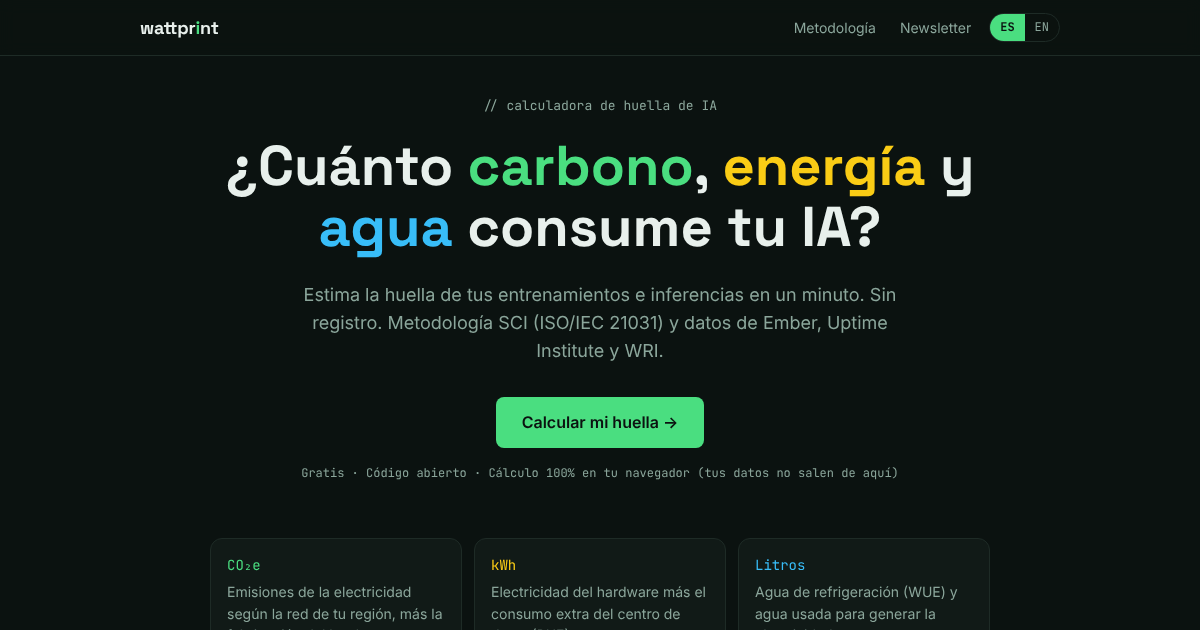
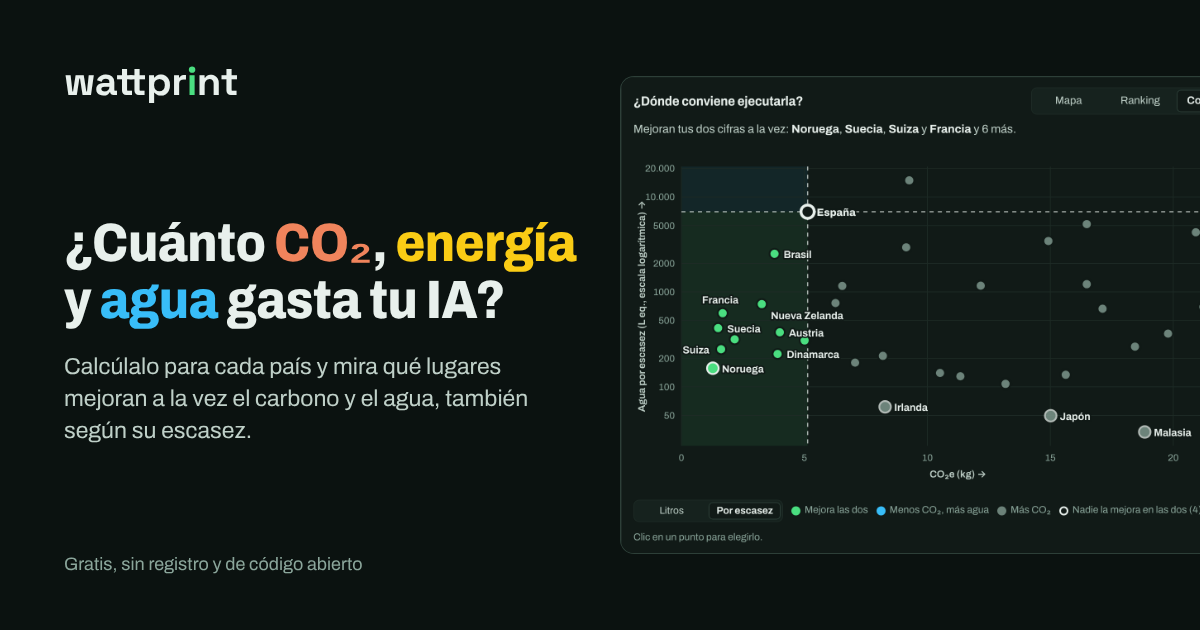
README e imagen social actualizadas a la versión actual
- Capturas nuevas (vista Comparar en oscuro y mapa en claro) en lugar de la de la versión antigua
- og.png nueva: la anterior mostraba el diseño antiguo y el enlace a la newsletter
- Créditos: AWARE 2.0, Google region-carbon-info y tipografías actuales (Archivo y Space Grotesk)
- Fila de energía libre de carbono de Google (solo informativa)
- Sección en inglés con escasez, Comparar y auditoría

Claude-Session: https://claude.ai/code/session_019PXX3APaUXubXFWHEUQ8Ua

diff --git a/README.md b/README.md
@@ -4,7 +4,15 @@
 
 **Pruébala:** https://wattprint-kappa.vercel.app/ · [English version](https://wattprint-kappa.vercel.app/?lang=en)
 
-![Resultados de Wattprint](docs/resultados.png)
+![Vista Comparar de Wattprint: CO₂ frente a agua ponderada por escasez para un ajuste fino en España](docs/comparar.png)
+
+*Vista Comparar (modo oscuro): un ajuste fino con 4 A100 durante 12 horas en España. Los puntos verdes mejoran a la vez su CO₂ y su agua ponderada por escasez.*
+
+<details><summary>Mapa en modo claro</summary>
+
+![Mapa de Wattprint en modo claro con el CO₂ de la misma tarea en cada país](docs/mapa-claro.png)
+
+</details>
 
 ## Qué hace
 
@@ -29,6 +37,7 @@ Marco: basada en la especificación **Software Carbon Intensity (SCI)** de la Gr
 | Agua de refrigeración | `litros = kWh de servidores × WUE` | Centro medio 0,36 L/kWh: media de los centros de EE. UU. en 2023 ([Shehabi et al., LBNL 2024](https://eta-publications.lbl.gov/sites/default/files/2024-12/lbnl-2024-united-states-data-center-energy-usage-report_1.pdf)); grandes nubes 0,27 L/kWh ([Microsoft, año fiscal 2025](https://datacenters.microsoft.com/sustainability/efficiency/); AWS informa 0,12 de agua extraída en 2025 ([Amazon Sustainability](https://sustainability.aboutamazon.com/products-services/aws-cloud))) |
 | Agua de generación eléctrica | `litros = kWh totales × factor de agua de la red` | [WRI, Reig et al. (2020)](https://www.wri.org/research/guidance-calculating-water-use-embedded-purchased-electricity), apéndice 2 (49 países) y apéndice 1 (subregiones eGRID de EE. UU.: SRVC para Virginia, NWPP para Oregón), en gal/kWh × 3,785 L/gal; los países sin factor propio usan la media mundial ponderada por generación de la tabla 4 (1,27 gal/kWh = 4,81 L/kWh) y se marcan como aproximados. Atribuyen a la electricidad toda la evaporación de los embalses; mismo marco que [Li et al., *Making AI Less "Thirsty"*](https://arxiv.org/abs/2304.03271) |
 | Agua ponderada por escasez | `litros eq. = litros × factor AWARE del lugar` | AWARE 2.0 ([Seitfudem et al., J. Ind. Ecol. 2025](https://doi.org/10.1111/jiec.70023); [datos](https://doi.org/10.5281/zenodo.15133241), CC BY 4.0), método de consenso de WULCA ([Boulay et al. 2018](https://doi.org/10.1007/s11367-017-1333-8)) que usa la Huella Ambiental de la UE para el agua. Factor anual, usos no agrícolas: países con la definición GLAM, territorios con la de ecoinvent, Virginia y Oregón con su estado (US-VA, US-OR), mundo GLO, UE EU27. Refrigeración y central con el mismo factor |
+| Energía libre de carbono (solo informativa) | % CFE horario de cada región de Google Cloud | [Google, region-carbon-info](https://github.com/GoogleCloudPlatform/region-carbon-info) (2025, Apache 2.0). Mirada de mercado: se muestra junto a la región, pero no entra en ningún cálculo, que sigue siendo location-based |
 
 Opciones para reducirla: carbon-aware scheduling con la referencia de [Dodge et al., FAccT 2022](https://arxiv.org/abs/2206.05229) (medias de 16 regiones de Azure con intensidad marginal de 2020: −26,4 % hasta 1 h y −14,5 % hasta 6 h retrasando el inicio; −11 % en cargas más largas pausando y reanudando), que el usuario puede sustituir por su propio dato. Para otras optimizaciones (auto-scaling, cuantización) no hay un porcentaje general fiable, así que el usuario introduce su ahorro. Todos los supuestos de cada cálculo se muestran en los resultados y en el informe.
 
@@ -56,12 +65,28 @@ python3 -m http.server 8000   # o abre index.html directamente
 
 Los datos (regiones, PUE, WUE, factores de agua, equivalencias) están en el objeto `DATA` de `index.html`, en un solo sitio, para que sea fácil revisarlos o actualizarlos. Los textos en los dos idiomas están en `I18N`.
 
+## Auditoría automática
+
+`tests/audit.py` comprueba la herramienta de punta a punta:
+
+- **Datos:** el carbono de cada una de las 216 regiones frente a OWID/Ember; el agua frente a los apéndices 1 y 2 y la tabla 4 del WRI; las regiones de AWS, Google Cloud y Azure frente a sus listas oficiales; la región de Uptime de cada país frente a una regla geográfica independiente; el factor AWARE 2.0 de cada lugar frente al Excel original; y la energía libre de carbono de Google frente a su CSV.
+- **Fórmulas:** 20.736 escenarios y 373.248 comparaciones, incluida el agua ponderada por escasez (todas las regiones con los dos tipos de centro, GPU, centros de datos, modos, resto del servidor, duraciones, vidas útiles y combinaciones de opciones) frente a una implementación independiente en Python escrita a partir de la metodología.
+- **Comparar:** los puntos, los lugares que mejoran tus dos cifras y la frontera (los que ningún otro mejora en las dos), recalculados en Python.
+- **Interfaz:** cifras, equivalencias, desglose, efecto de cada opción, mapa (incluidos los países atenuados), ranking de energía por región, recomendación, desplegable, por petición y por año.
+- **Enlace compartible:** ida y vuelta del estado.
+- **CSV.**
+- **Entradas inválidas.**
+
+Uso: sirve la carpeta con un servidor estático en el puerto 8799 y ejecuta `OWID_CSV=… WRI_XLSX=… python3 tests/audit.py` (requiere `pip install pycountry-convert`; `AWARE_XLSX` apunta a AWARE20_Countries_and_Regions.xlsx de Zenodo y `GCFE_CSV` al CSV de 2025 de GoogleCloudPlatform/region-carbon-info). Los apéndices del WRI se descargan desde su página de datos.
+
 ## Licencias y créditos
 
 - Código: [MIT](LICENSE) © 2026 Carlos Gallego Galán.
 - Datos de intensidad de carbono: Ember, CC BY 4.0.
 - Factores de agua de la electricidad: World Resources Institute (2020).
-- Tipografías Space Grotesk, Inter y JetBrains Mono: SIL Open Font License 1.1.
+- Factores de escasez de agua: AWARE 2.0 (Seitfudem et al., 2025), CC BY 4.0.
+- Energía libre de carbono de Google Cloud: GoogleCloudPlatform/region-carbon-info, Apache 2.0.
+- Tipografías Archivo y Space Grotesk: SIL Open Font License 1.1.
 - Proyecto independiente, sin relación con la Green Software Foundation, Ember, WRI ni los proveedores citados.
 
 Hecha por [Carlos Gallego Galán](https://neocortech-kohl.vercel.app/).
@@ -73,22 +98,9 @@ Hecha por [Carlos Gallego Galán](https://neocortech-kohl.vercel.app/).
 **How much carbon, energy and water does your AI use?** Wattprint estimates it in about a minute for a training run, a fine-tune or an inference service, per request too. No sign-up, nothing is sent to a server: everything runs in your browser.
 
 - **Try it:** https://wattprint-kappa.vercel.app/?lang=en
-- **Method:** based on Software Carbon Intensity (SCI, ISO/IEC 21031), using annual average rather than marginal grid intensity. Energy from GPU TDP and utilisation plus a fixed share for the rest of the server, or your measured kWh, times PUE. Carbon from Ember grid intensity (location-based) plus amortised embodied emissions. Water = cooling (WUE, LBNL 2024 / Microsoft 2025) + electricity generation (WRI country factors, as in Li et al.).
-- **Outputs:** single-screen dashboard with a choropleth map of the same task on every grid, visual breakdowns, per-request (SCI functional unit) and annual views, reduction options with their effect on CO₂e, energy and water, PDF report, CSV data, share card and link.
+- **Method:** based on Software Carbon Intensity (SCI, ISO/IEC 21031), using annual average rather than marginal grid intensity. Energy from GPU TDP and utilisation plus a fixed share for the rest of the server, or your measured kWh, times PUE (hyperscale 1.13, or the Uptime Institute 2025 regional average). Carbon from Ember grid intensity (location-based) plus amortised embodied emissions. Water = cooling (WUE, LBNL 2024 / Microsoft 2025) + electricity generation (WRI country factors, as in Li et al.), optionally weighted by water scarcity with AWARE 2.0 (the WULCA method used by the EU Environmental Footprint). Google's carbon-free energy share per region is shown for information only.
+- **Outputs:** single-screen dashboard in light and dark mode with a choropleth map of the same task on every grid, a ranking, and a **Compare** view (CO₂ against litres or scarcity-weighted water, marking the places that improve both and the Pareto front), visual breakdowns, per-request (SCI functional unit) and annual views, reduction options with their effect on CO₂e, energy and water, PDF report, CSV data, share card and link.
+- **Audit:** `tests/audit.py` checks every data point against its source and every formula against an independent Python implementation (see below).
 - **Limits:** order-of-magnitude estimates, not certified measurement.
 - **Run locally:** a single HTML file; serve the folder with any static server.
-- **License:** MIT for the code; Ember data under CC BY 4.0; fonts under SIL OFL 1.1.
-
-## Auditoría automática
-
-`tests/audit.py` comprueba la herramienta de punta a punta:
-
-- **Datos:** el carbono de cada una de las 216 regiones frente a OWID/Ember; el agua frente a los apéndices 1 y 2 y la tabla 4 del WRI; las regiones de AWS, Google Cloud y Azure frente a sus listas oficiales; la región de Uptime de cada país frente a una regla geográfica independiente; el factor AWARE 2.0 de cada lugar frente al Excel original; y la energía libre de carbono de Google frente a su CSV.
-- **Fórmulas:** 20.736 escenarios y 373.248 comparaciones, incluida el agua ponderada por escasez, (todas las regiones con los dos tipos de centro, GPU, centros de datos, modos, resto del servidor, duraciones, vidas útiles y combinaciones de opciones) frente a una implementación independiente en Python escrita a partir de la metodología.
-- **Comparar:** los puntos, los lugares que mejoran tus dos cifras y la frontera (los que ningún otro mejora en las dos), recalculados en Python.
-- **Interfaz:** cifras, equivalencias, desglose, efecto de cada opción, mapa (incluidos los países atenuados), ranking de energía por región, recomendación, desplegable, por petición y por año.
-- **Enlace compartible:** ida y vuelta del estado.
-- **CSV.**
-- **Entradas inválidas.**
-
-Uso: sirve la carpeta con un servidor estático en el puerto 8799 y ejecuta `OWID_CSV=… WRI_XLSX=… python3 tests/audit.py` (requiere `pip install pycountry-convert`; `AWARE_XLSX` apunta a AWARE20_Countries_and_Regions.xlsx de Zenodo y `GCFE_CSV` al CSV de 2025 de GoogleCloudPlatform/region-carbon-info). Los apéndices del WRI se descargan desde su página de datos.
+- **License:** MIT for the code; Ember and AWARE 2.0 data under CC BY 4.0; Google region data under Apache 2.0; fonts under SIL OFL 1.1.
